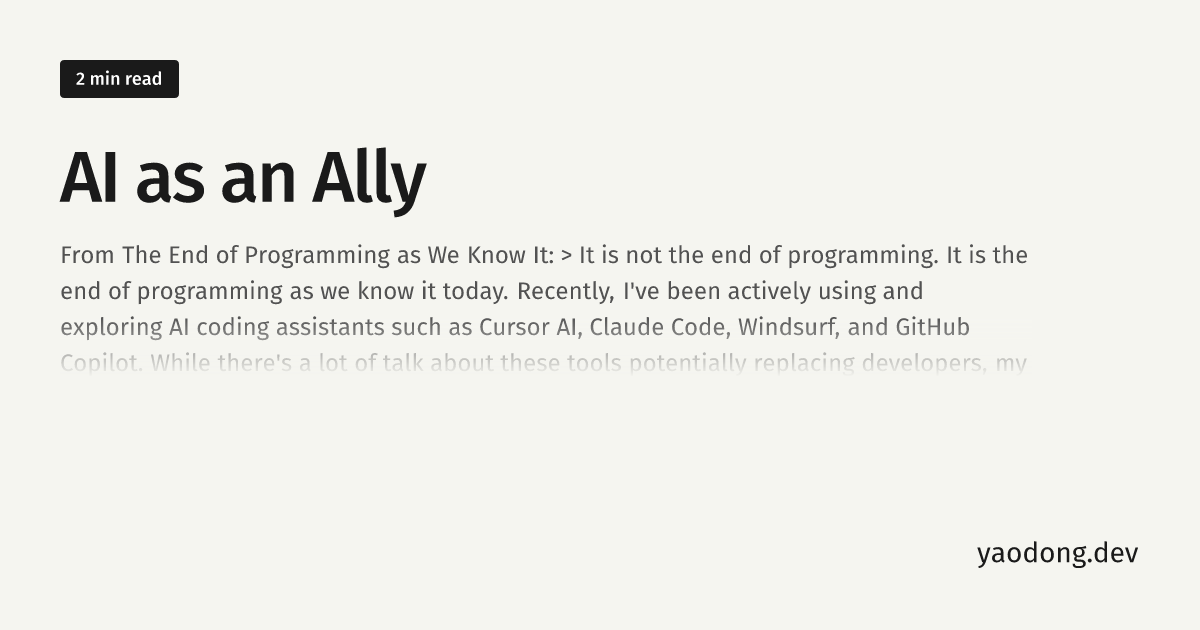
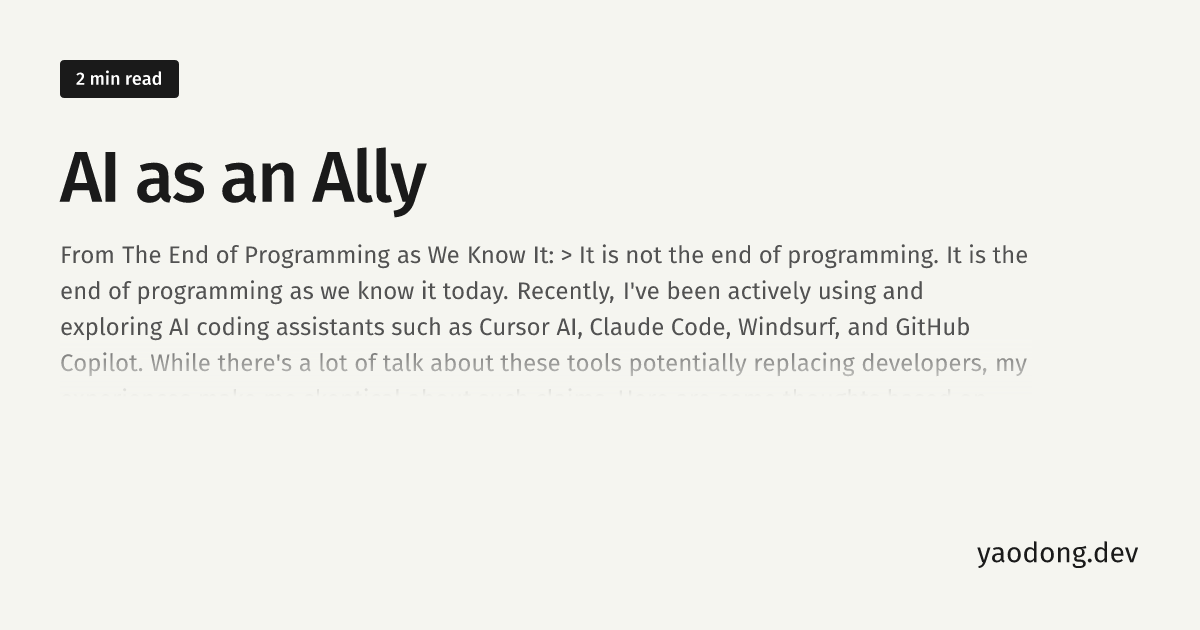
Update Open Graph image files and enhance image generation script to support longer descriptions

Changed region(s): [[0.0617, 0.5127, 0.8633, 0.6032]]

diff --git a/scripts/generate-og-image.ts b/scripts/generate-og-image.ts
@@ -76,26 +76,11 @@ async function generateOgImage(postPath: string) {
       description = paragraphs.slice(0, 3).join(" ").replace(/\n/g, " ").trim();
     }
   }
-  // Strip markdown syntax and truncate for fading effect
+  // Strip markdown syntax - use plenty of text, overflow will be hidden with fade effect
   description = stripMarkdown(description);
-  // Truncate to roughly 3 lines worth of text (~200 chars at 24px font)
-  // This ensures we have full lines for the fade effect
-  if (description.length > 200) {
-    const truncated = description.substring(0, 200);
-    const lastSpace = truncated.lastIndexOf(" ");
-    // Try to end at a sentence boundary (. ! ?)
-    const lastSentence = Math.max(
-      truncated.lastIndexOf(". "),
-      truncated.lastIndexOf("! "),
-      truncated.lastIndexOf("? ")
-    );
-    if (lastSentence > 120) {
-      description = truncated.substring(0, lastSentence + 1);
-    } else if (lastSpace > 150) {
-      description = truncated.substring(0, lastSpace);
-    } else {
-      description = truncated;
-    }
+  // Keep up to 600 chars - the container will clip overflow and gradient will fade it out
+  if (description.length > 600) {
+    description = description.substring(0, 600);
   }
 
   // Load Fira Sans font from local files
@@ -194,7 +179,7 @@ async function generateOgImage(postPath: string) {
                                 flexDirection: "column",
                                 position: "relative",
                                 maxWidth: "90%",
-                                maxHeight: "140px",
+                                maxHeight: "160px",
                                 overflow: "hidden",
                               },
                               children: [
